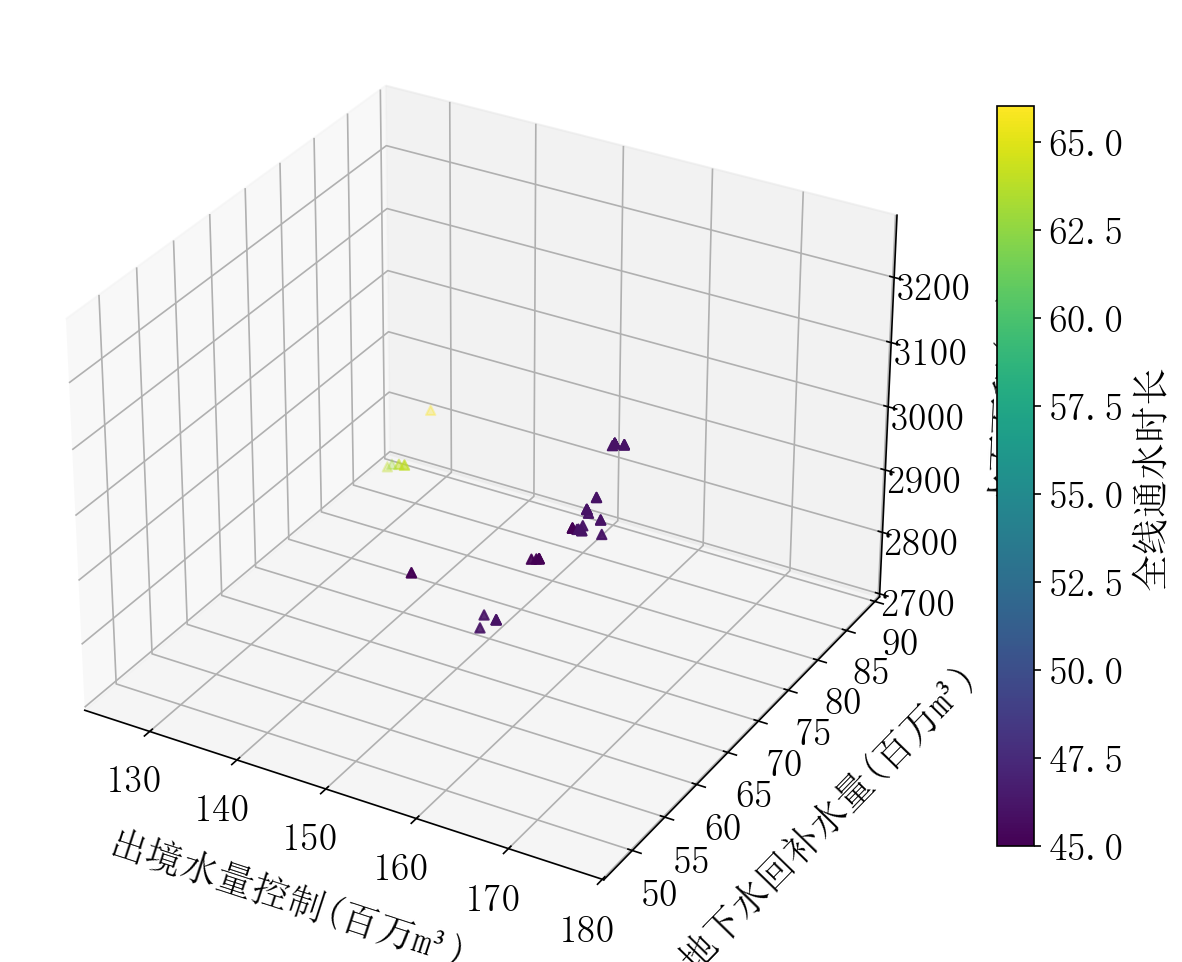
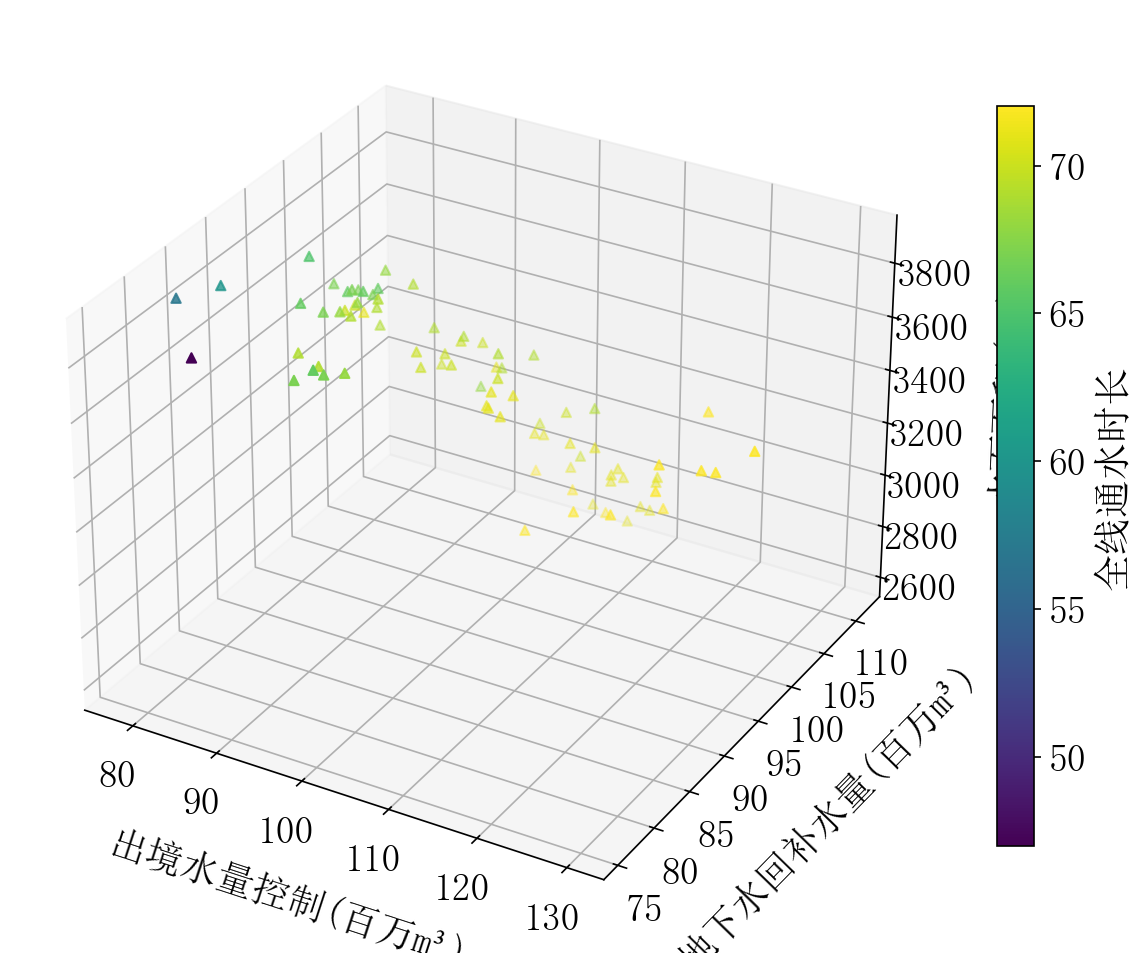
修复SMPSO中特殊情况下的维度不匹配问题，并更新案例结果

diff --git a/wise_wrsom/optimizers/smpso.py b/wise_wrsom/optimizers/smpso.py
@@ -63,7 +63,17 @@ class SMPSOOptimizer:
             velocity = self._update_velocity(seg_pop, velocity, archive, w)
             self._update_population(seg_pop, velocity, flow_min, flow_max)
             for i in range(len(seg_pop)):
+                old_n = velocity[i].shape[0] if i < len(velocity) else 0
                 seg_pop[i] = segment_mutation(seg_pop[i], self.mutation_rate, self.mutation_eta)
+                new_n = seg_pop[i].n_segments
+                if new_n != old_n:
+                    # 段数变化后重新初始化速度
+                    v = np.zeros(new_n)
+                    n_active = new_n - 1
+                    if n_active > 0:
+                        v[:n_active] = np.random.uniform(self.velocity_min, self.velocity_max, n_active)
+                        v[-1] = -np.dot(v[:n_active], seg_pop[i].day_splits[:n_active]) / seg_pop[i].day_splits[-1]
+                    velocity[i] = np.clip(v, self.velocity_min, self.velocity_max)
             obj_values = evaluate_objectives(
                 objectives, routing_model, river_params, seg_pop.expand(), total_water
             )
@@ -115,6 +125,15 @@ class SMPSOOptimizer:
             for j in range(sol.n_segments):
                 seg_delta[j] = np.mean(leader_delta[idx:idx + sol.day_splits[j]])
                 idx += sol.day_splits[j]
+
+            # 如果 velocity 维度与当前解段数不匹配，重新初始化
+            if velocity[i].shape[0] != sol.n_segments:
+                v_new = np.zeros(sol.n_segments)
+                n_active = sol.n_segments - 1
+                if n_active > 0:
+                    v_new[:n_active] = np.random.uniform(self.velocity_min, self.velocity_max, n_active)
+                    v_new[-1] = -np.dot(v_new[:n_active], sol.day_splits[:n_active]) / sol.day_splits[-1]
+                velocity[i] = np.clip(v_new, self.velocity_min, self.velocity_max)
 
             cognitive = np.random.uniform(0, 1, sol.n_segments) * seg_delta * 0.1
             v = (w * velocity[i] + c2 * r2 * seg_delta + c1 * r1 * cognitive) * chi